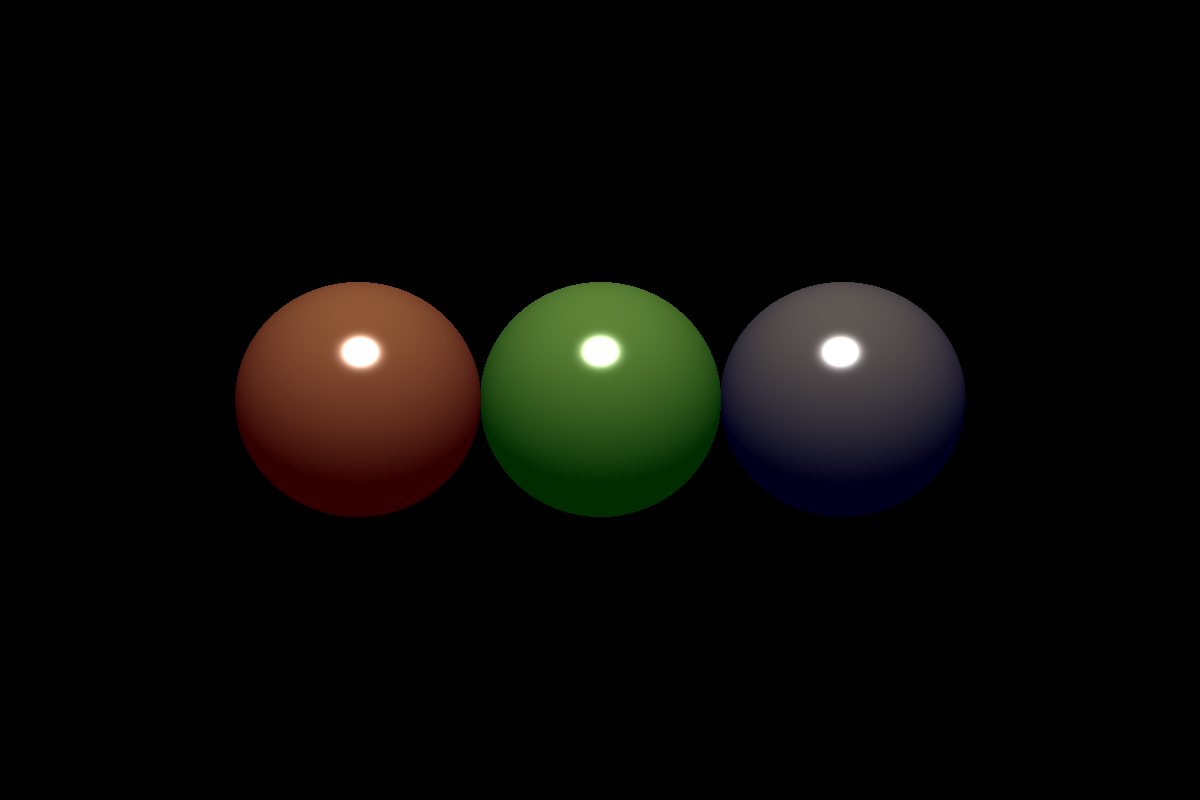
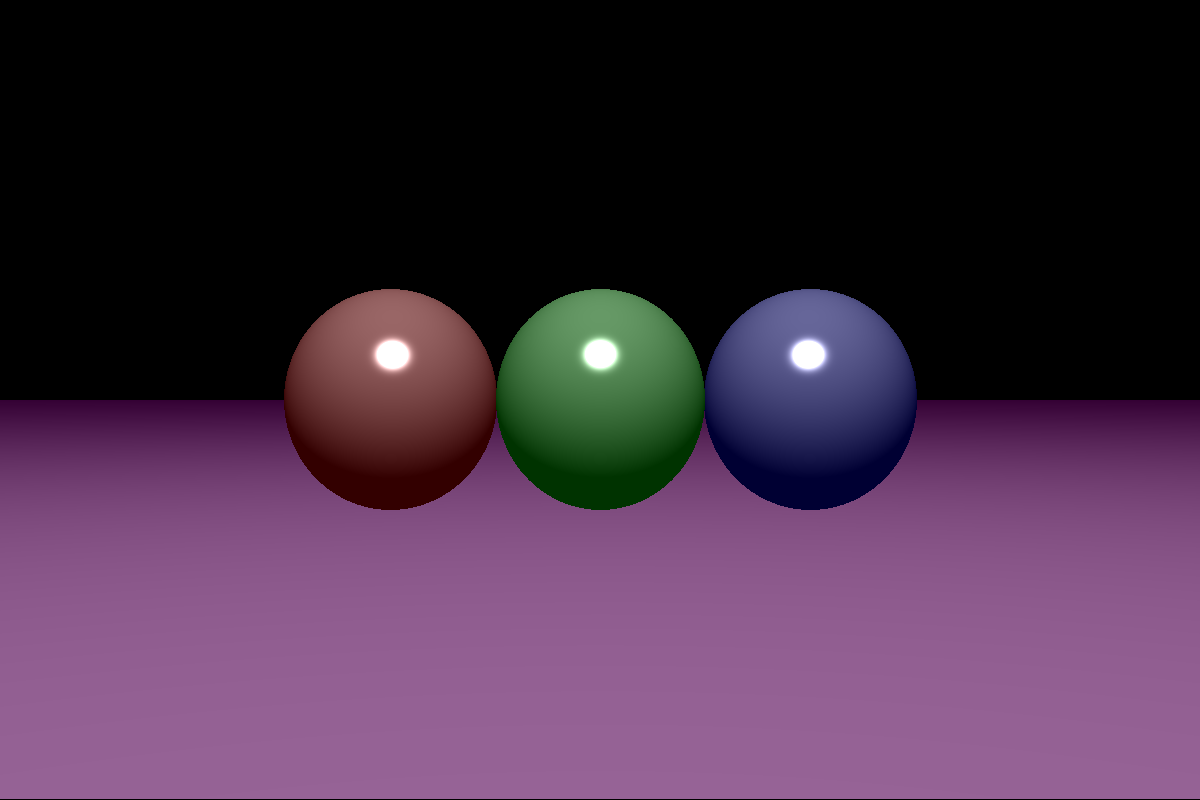
First commit

diff --git a/Raytracer/Main.cpp b/Raytracer/Main.cpp
@@ -1,6 +1,7 @@
 #include <FreeImage.h>
 #include "Scene.h"
 #include "Sphere.h"
+#include "Plane.h"
 
 const float WIDTH = 1200;
 const float HEIGHT = 800;
@@ -8,15 +9,15 @@ const float HFOV = 60 * 3.14159265f / 180.0f;
 const float VFOV = HFOV * HEIGHT / WIDTH;
 
 Scene* scene;
-FIBITMAP* bitmapz;
+FIBITMAP* bitmap;
 
 
 void init()
 {
 	FreeImage_Initialise();
-	bitmapz = FreeImage_Allocate(WIDTH, HEIGHT, 24);
+	bitmap = FreeImage_Allocate(WIDTH, HEIGHT, 24);
 	
-	scene = new Scene(bitmapz);
+	scene = new Scene();
 
 	scene->camera->SetPosition(Vector3(0.0f, 0.0f, -10.0f));
 	scene->camera->LookAt(Vector3(0.0f, 0.0f, 0.0f));
@@ -24,8 +25,10 @@ void init()
 	scene->AddModel(new Sphere(Vector3(1.0f, 0.0f, 0.0f), 1.0f, Vector3(2, 0, 0)));
 	scene->AddModel(new Sphere(Vector3(0.0f, 1.0f, 0.0f), 1.0f, Vector3()));
 	scene->AddModel(new Sphere(Vector3(0.0f, 0.0f, 1.0f), 1.0f, Vector3(-2, 0, 0)));
+	scene->AddModel(new Plane(Vector3(0, 1, 0), Vector3(1.0, 0, 1.0), -1));
 
-	scene->AddLight(new Light(Vector3(239.0f / 255.0f, 219.0f / 255.0f, 139.0f / 255.0f), Vector3(1, 1, 1), Vector3(0, 10, -10)));
+	//scene->AddLight(new Light(Vector3(239.0f / 255.0f, 219.0f / 255.0f, 139.0f / 255.0f), Vector3(1, 1, 1), Vector3(0, 10, -10)));
+	scene->AddLight(new Light(Vector3(1,1,1), Vector3(1, 1, 1), Vector3(0, 10, -10)));
 }
 
 int main()
@@ -44,7 +47,7 @@ int main()
 			//if ray origin is at (0 0 0) and facing +z direction, left is +x, right is -x, up is +y, down is -y
 			//relative x / y assume left to right is -1 to 1 and up to down is -1 to 1
 
-			ray->direction = Vector3(-relativeX * sinf(HFOV / 2.0f), -relativeY * sinf(VFOV / 2.0f), 1.0f);
+			ray->direction = Vector3(-relativeX * tanf(HFOV / 2.0f), -relativeY * tanf(VFOV / 2.0f), 1.0f);
 			ray->direction.Normalize();
 			ray->direction = scene->camera->GetOrientation() * ray->direction;
 
@@ -56,11 +59,11 @@ int main()
 			FIColor.rgbGreen = (BYTE)round(color.y * 255);
 			FIColor.rgbBlue = (BYTE)round(color.z * 255);
 
-			FreeImage_SetPixelColor(bitmapz, x, HEIGHT - y, &FIColor); //freeimage has 0,0 at bottom left
+			FreeImage_SetPixelColor(bitmap, x, HEIGHT - y, &FIColor); //freeimage has 0,0 at bottom left
 		}
 	}
 	delete ray;
 
-	FreeImage_Save(FIF_PNG, bitmapz, "test.png", 0);
+	FreeImage_Save(FIF_PNG, bitmap, "test.png", 0);
 	FreeImage_DeInitialise();
 }

diff --git a/Raytracer/Ray.cpp b/Raytracer/Ray.cpp
@@ -15,13 +15,23 @@ Vector3 Ray::Shoot(Scene* scene) {
 	int nModels = models->size();
 	int nLights = lights->size();
 
+	float z = 100000;
+	Vector3 illumination;
+
 	for (int i = 0; i < nModels; i++) {
 
 		Model* model = models->at(i);
 		Hit hit = model->Intersect(this);
-
 		if (hit.valid) {
-			Vector3 illumination = model->material.Color * scene->ambientLight * model->material.Ambient;
+
+			if (hit.distance >= z)
+			{
+				continue;
+			}
+
+			z = hit.distance;
+
+			illumination = model->material.Color * scene->ambientLight * model->material.Ambient;
 
 			for(int j = 0; j < nLights; j++)
 			{
@@ -43,12 +53,12 @@ Vector3 Ray::Shoot(Scene* scene) {
 
 				illumination = illumination + light->Color * diffuse + light->Specular * specular;
 			}
-
-			if (illumination.x > 1) illumination.x = 1;
-			if (illumination.y > 1) illumination.y = 1;
-			if (illumination.z > 1) illumination.z = 1;
-			return illumination;
 		}
+
+		if (illumination.x > 1) illumination.x = 1;
+		if (illumination.y > 1) illumination.y = 1;
+		if (illumination.z > 1) illumination.z = 1;
+		
 	}
-	return Vector3();
+	return illumination;
 }

diff --git a/Raytracer/Plane.cpp b/Raytracer/Plane.cpp
@@ -1,0 +1,42 @@
+#include "Plane.h"
+
+
+
+Plane::Plane() : Model()
+{
+	normal = Vector3(0, 1, 0);
+	distance = 0;
+}
+
+Plane::Plane(Vector3 normal, Vector3 color, float distance)
+{
+	normal.Normalize();
+	Plane::normal = normal;
+	Plane::distance = distance;
+	material = Material(color, 4, 0.4f, 0.2f);
+}
+
+Hit Plane::Intersect(Ray* ray)
+{
+	Hit hit;
+	hit.valid = false;
+
+	float t;
+	Vector3 p = normal * distance;
+
+	float denominator = ray->direction.Dot(normal);
+	
+	Vector3 lineToPlane = p - ray->origin;
+	t = normal.Dot(lineToPlane) / denominator;
+
+	if(t >= 0)
+	{
+		hit.valid = true;
+		hit.Color = material.Color;
+		hit.Normal = normal;
+		hit.distance = t;
+		hit.Position = ray->origin + ray->direction * t;
+	}
+	return hit;
+}
+

diff --git a/Raytracer/Model.cpp b/Raytracer/Model.cpp
@@ -7,6 +7,23 @@ Hit Model::Intersect(Ray* ray)
 	return hit;
 }
 
+/*bool Model::Check(Ray* ray)
+{
+	float t0x = (min.x - ray->origin.x) / ray->direction.x;
+	float t1x = (max.x - ray->origin.x) / ray->direction.x;
+	float t0y = (min.y - ray->origin.y) / ray->direction.y; 
+	float t1y = (max.y - ray->origin.y) / ray->direction.y;
+	float t0z = (min.z - ray->origin.z) / ray->direction.z;
+	float t1z = (max.z - ray->origin.z) / ray->direction.z;
+}*/
+
+
+Model::Model()
+{
+	material.Color = Vector3(1, 1, 1);
+}
+
+
 Model::Model(Vector3 color, Vector3 position)
 {
 	transform.SetPosition(position);

diff --git a/Raytracer/Sphere.cpp b/Raytracer/Sphere.cpp
@@ -3,6 +3,8 @@
 Sphere::Sphere(Vector3 color, float radius, Vector3 position) : Model(color, position)
 {
 	Sphere::radius = radius;
+	//min = Vector3(-radius, -radius, -radius);
+	//max = Vector3(radius, radius, radius);
 	material = Material(color, 4, 0.4f, 0.2f);
 }
 
@@ -31,6 +33,7 @@ Hit Sphere::Intersect(Ray* ray) {
 	Vector3 normal = position - transform.GetPosition();
 
 	hit.valid = true;
+	hit.distance = t0;
 	hit.Color = material.Color;
 	hit.Position = position;
 	normal.Normalize();

diff --git a/Raytracer/Scene.h b/Raytracer/Scene.h
@@ -2,7 +2,6 @@
 
 
 #include <vector>
-#include <FreeImage.h>
 #include "Camera.h"
 #include "Light.h"
 
@@ -12,12 +11,11 @@ class Scene
 private:
 	std::vector<Model*> models;
 	std::vector<Light*> lights;
-	FIBITMAP* bitmap;
 
 	float HFOV = 60 * 3.14159265f / 180.0f;
 
 public:
-	Scene(FIBITMAP* bitmap);
+	Scene();
 	Vector3 ambientLight;
 	Camera* camera;
 	void AddModel(Model* model);

diff --git a/Raytracer/Model.h b/Raytracer/Model.h
@@ -16,13 +16,18 @@ protected:
 	std::vector<float> vertices; // in pairs of 3, x y z
 	std::vector<int> triangles;	//index of vertices
 
+	/*Vector3 min;
+	Vector3 max;*/
+
 public:
 	virtual ~Model()
 	{
 	}
 	Material material;
 
+	//virtual bool Check(Ray* ray);
 	virtual Hit Intersect(Ray* ray);
+	Model();
 	Model(Vector3 color, Vector3 position);
 };
 

diff --git a/Raytracer/Plane.h b/Raytracer/Plane.h
@@ -1,0 +1,14 @@
+#pragma once
+#include "Model.h"
+class Plane : public Model
+{
+private:
+	Vector3 normal;
+	float distance;
+
+public:
+	Plane();
+	Plane(Vector3 normal, Vector3 color, float distance);
+	virtual Hit Intersect(Ray* ray) override;
+};
+

diff --git a/Raytracer/Scene.cpp b/Raytracer/Scene.cpp
@@ -2,9 +2,8 @@
 #include "Light.h"
 
 
-Scene::Scene(FIBITMAP* bitmap) 
+Scene::Scene() 
 {
-	Scene::bitmap = bitmap;
 	camera = new Camera();
 }
 

diff --git a/Raytracer/Ray.h b/Raytracer/Ray.h
@@ -6,6 +6,7 @@ class Scene;
 struct Hit
 {
 	bool valid;
+	float distance;
 	Vector3 Color;
 	Vector3 Position;
 	Vector3 Normal;
